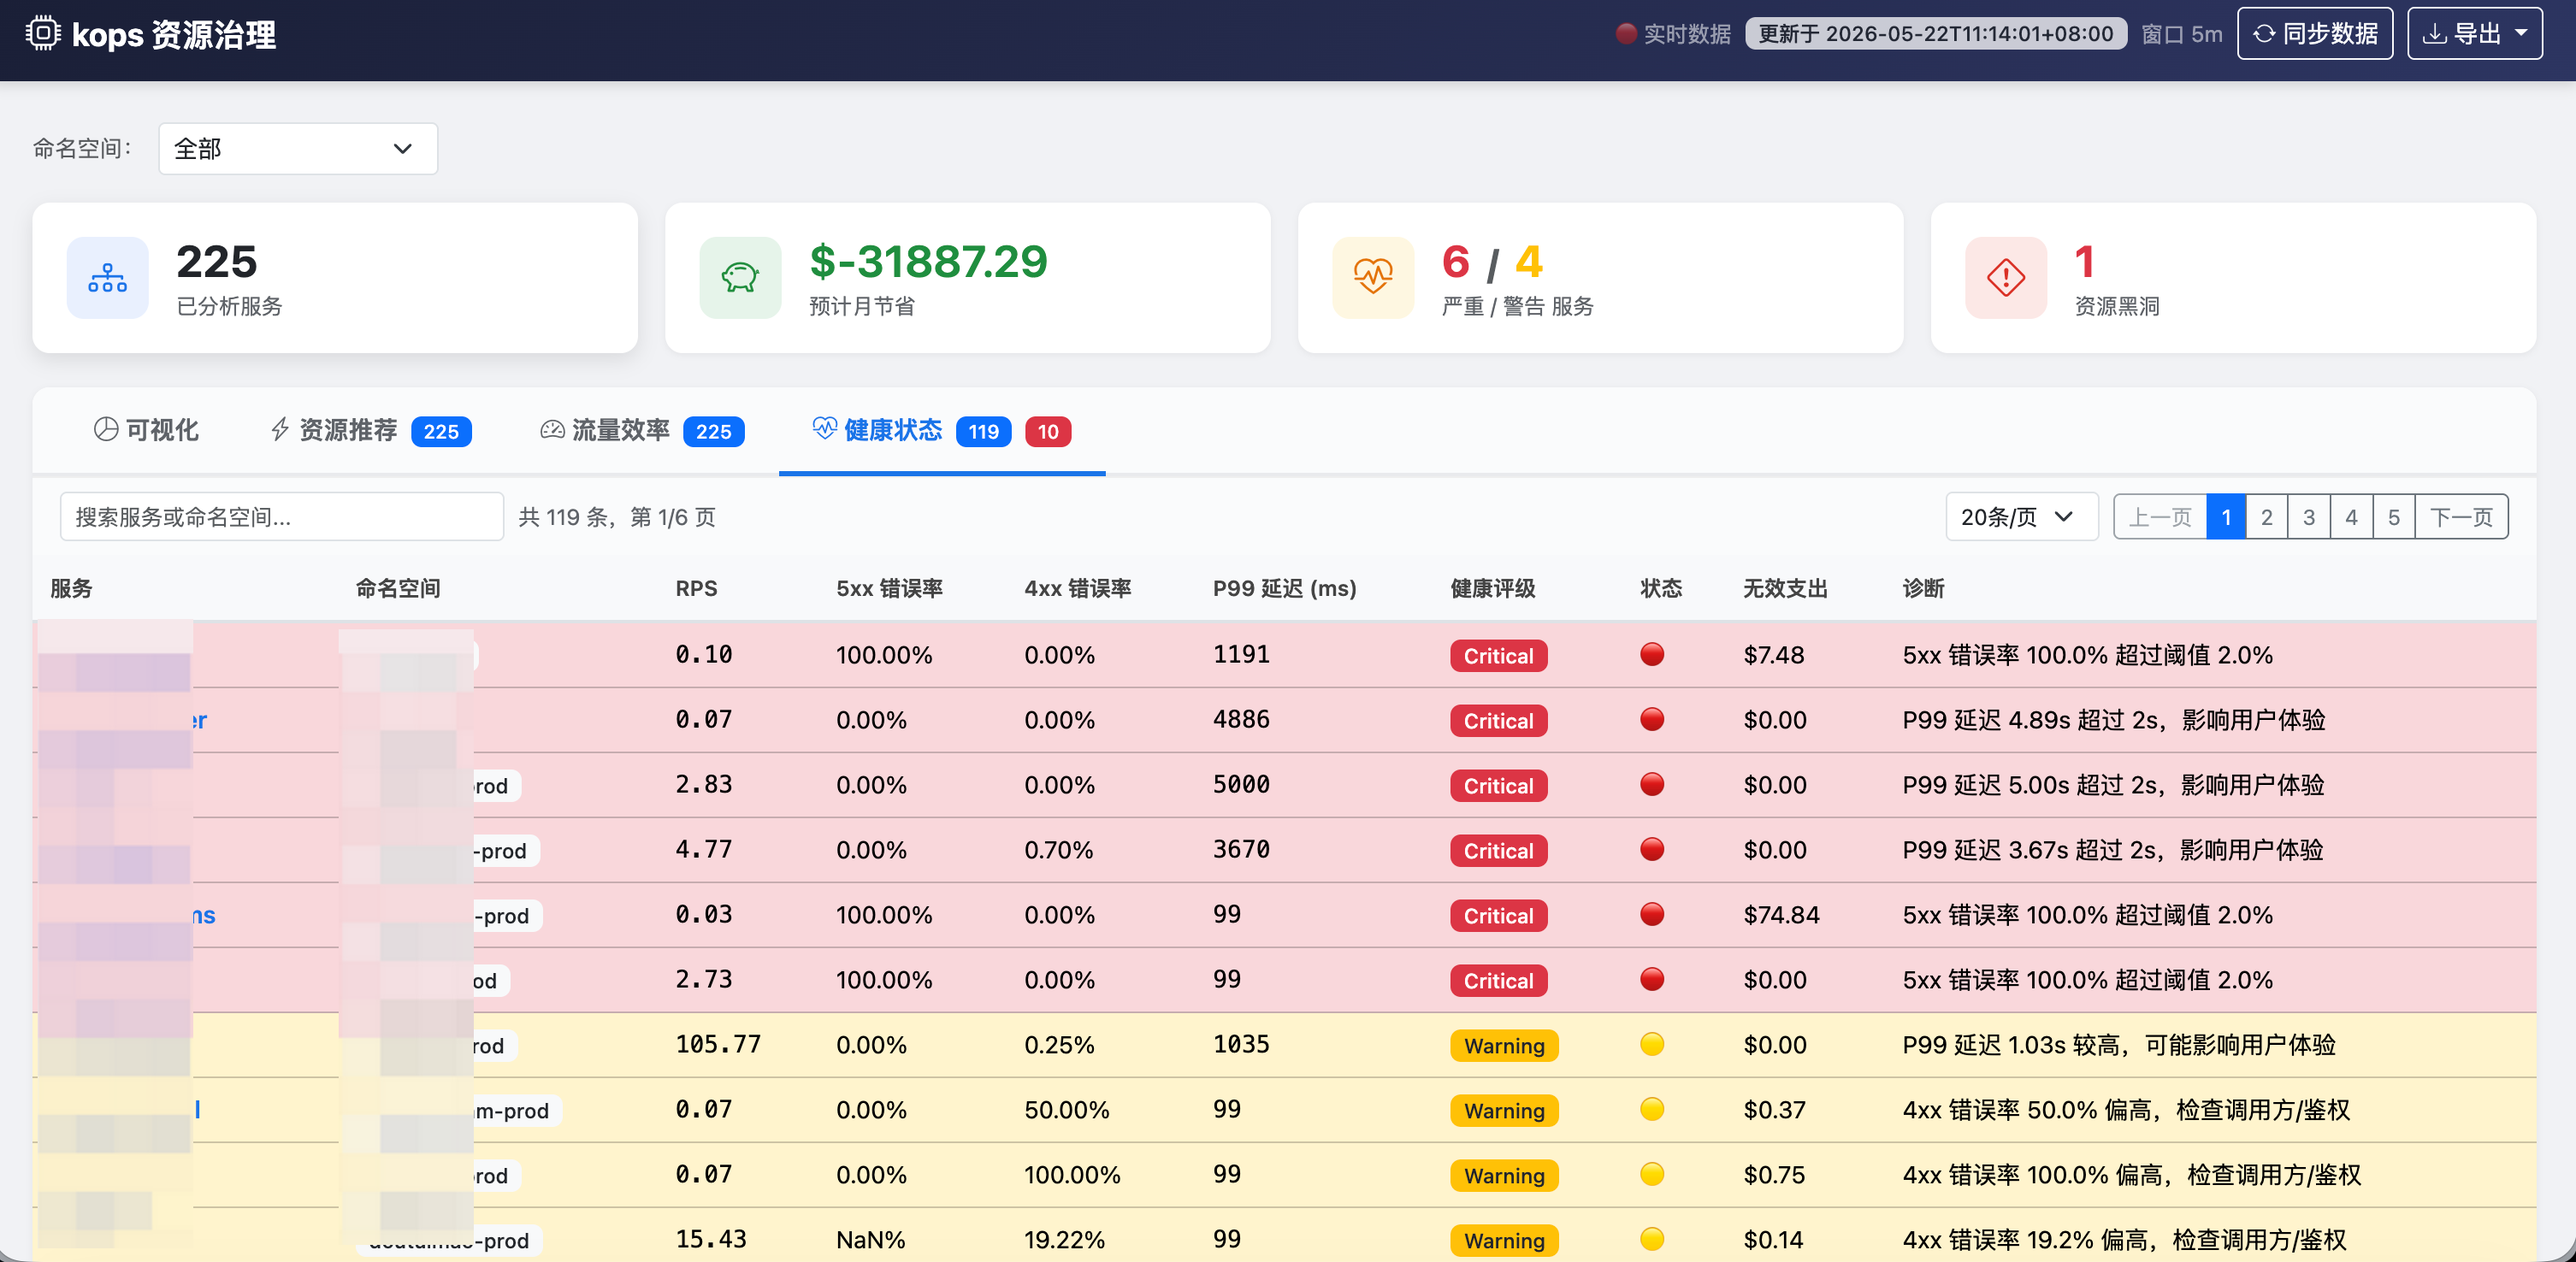
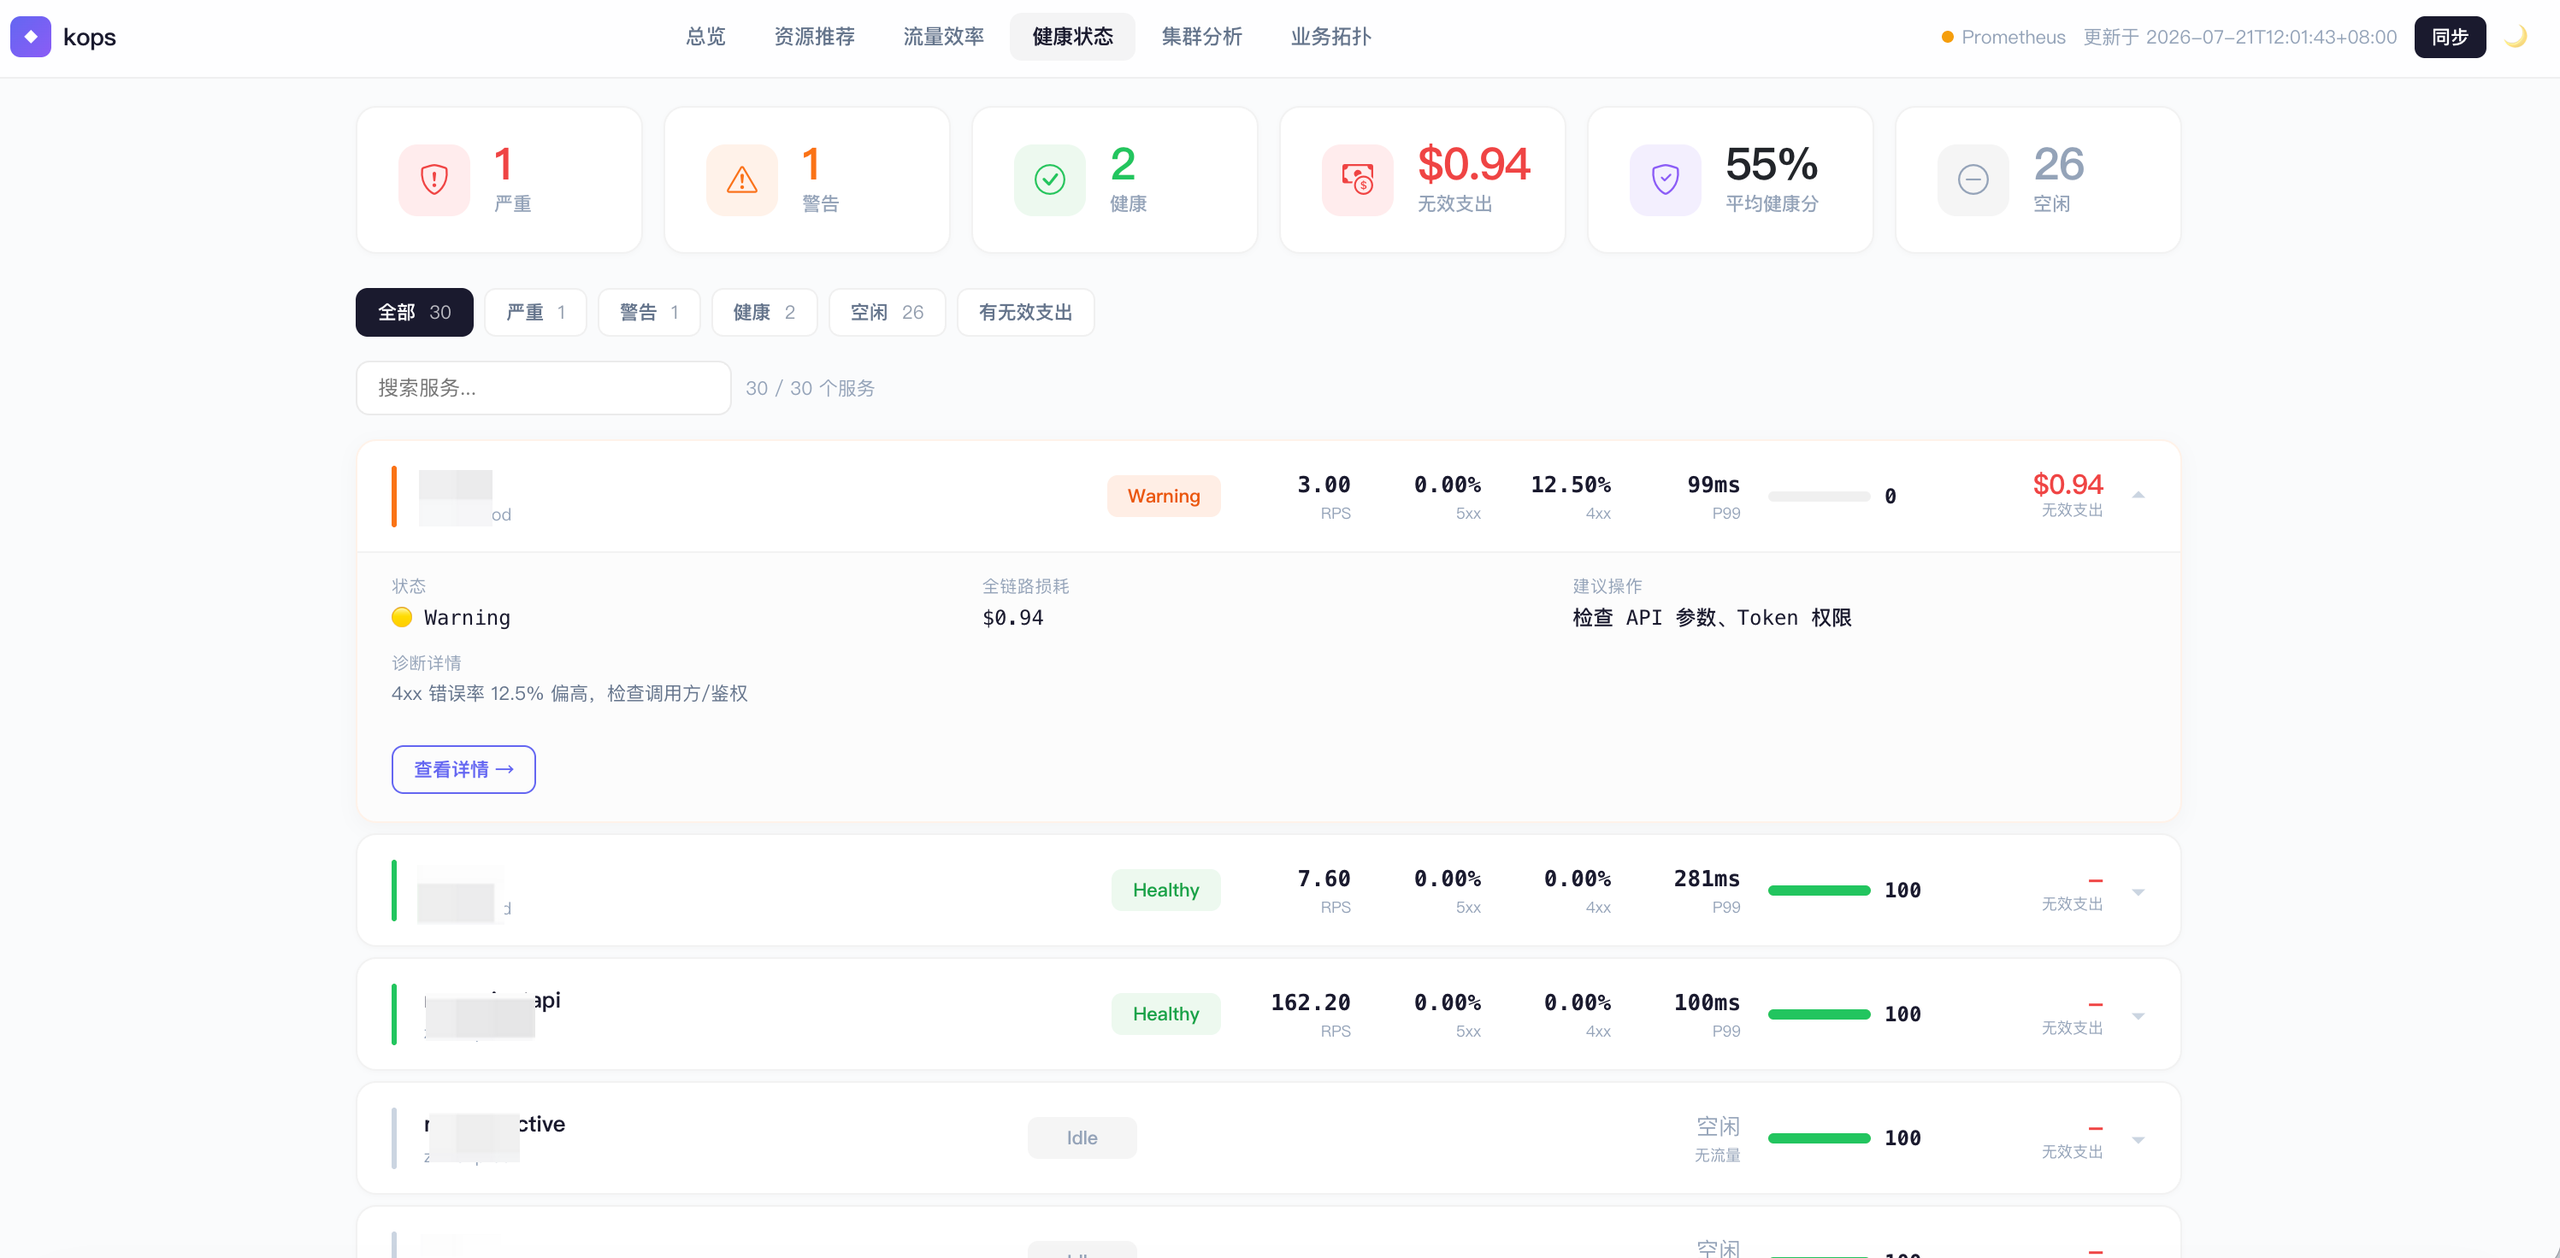
docs: add screenshots to README

diff --git a/README.md b/README.md
@@ -5,7 +5,19 @@
 
 `kops` 是一个面向 Kubernetes 的资源治理和 FinOps CLI，基于 Prometheus 指标生成容量建议、健康诊断和成本分析。
 
-![](docs/img/kops.png)
+![](docs/img/总览.png)
+
+## 截图
+
+<div style="display:flex;flex-wrap:wrap;gap:8px">
+  <img src="docs/img/总览.png" width="48%" alt="总览">
+  <img src="docs/img/资源推荐.png" width="48%" alt="资源推荐">
+  <img src="docs/img/流量效率.png" width="48%" alt="流量效率">
+  <img src="docs/img/健康状态.png" width="48%" alt="健康状态">
+  <img src="docs/img/集群分析.png" width="48%" alt="集群分析">
+  <img src="docs/img/业务拓扑-架构图.png" width="48%" alt="业务拓扑-架构图">
+  <img src="docs/img/业务拓扑图-依赖查询.png" width="48%" alt="业务拓扑-依赖查询">
+</div>
 
 ## 依赖
 
@@ -37,13 +49,13 @@
 
 | 页面 | URL | 功能 |
 |------|-----|------|
-| 总览 | `/` | 6 张图表 + 统计卡片 + 趋势对比 |
-| 资源推荐 | `/recommendations` | CPU/内存建议 + 成本 + 风险等级 + kubectl 命令 |
-| 流量效率 | `/efficiency` | 流量密度 S/A/B/C 评级 + 资源黑洞 |
-| 健康状态 | `/health` | Critical/Warning/Healthy/Idle 健康检查 |
-| 集群分析 | `/cluster` | 节点密度 + 伸缩建议 + 成本归属 |
-| 业务拓扑 | `/topology` | 服务调用链路 + 依赖查询 + 入口路由架构图 |
-| 服务详情 | `/service/:ns/:name` | CPU/内存/RPS 折线图 + 资源预测 |
+| 总览 | `/` | 6 张图表 + 统计卡片 + 趋势对比 | [📷](docs/img/总览.png) |
+| 资源推荐 | `/recommendations` | 节省优先卡片 + 成本对比 + kubectl 命令 | [📷](docs/img/资源推荐.png) |
+| 流量效率 | `/efficiency` | 流量密度 S/A/B/C 评级 + 资源黑洞 | [📷](docs/img/流量效率.png) |
+| 健康状态 | `/health` | Critical/Warning/Healthy/Idle + 评分条 | [📷](docs/img/健康状态.png) |
+| 集群分析 | `/cluster` | 节点伸缩 + 利用率色条 + 成本归属 | [📷](docs/img/集群分析.png) |
+| 业务拓扑 | `/topology` | 架构图 + 依赖查询（服务调用链） | [📷](docs/img/业务拓扑-架构图.png) [📷](docs/img/业务拓扑图-依赖查询.png) |
+| 服务详情 | `/service/:ns/:name` | CPU/内存/RPS 折线图 + 资源预测 | |
 
 Dashboard 特性：
 - 暗色模式、列排序、筛选芯片、行展开详情
